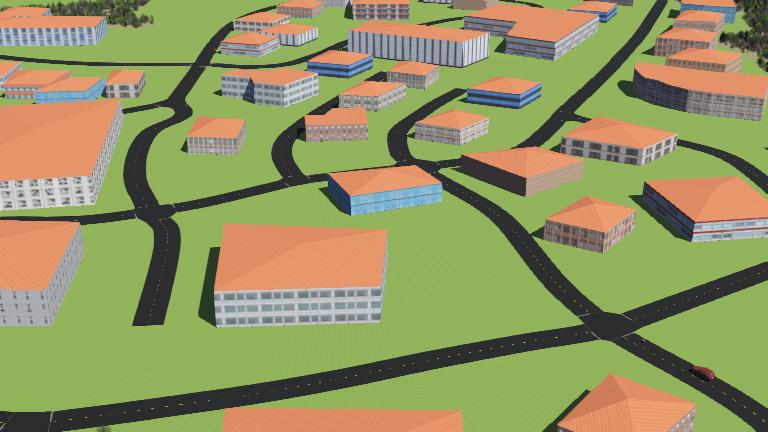
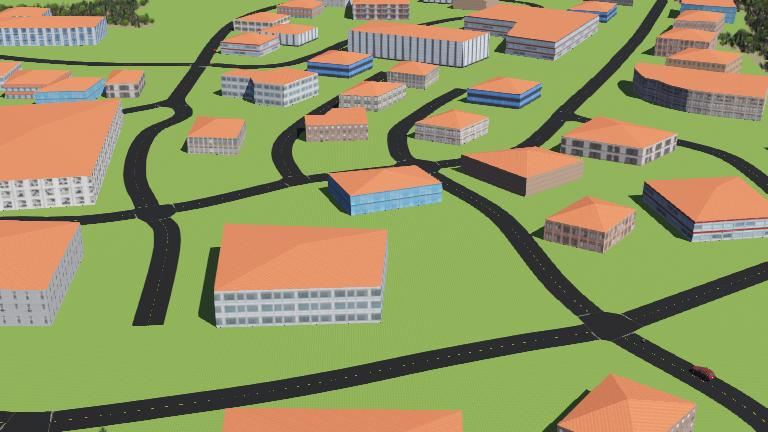
Refactor supervisor structure, add camera director controller

Changed region(s): [[0.0, 0.0, 0.2188, 0.0602], [0.9375, 0.0, 1.0, 0.1505], [0.125, 0.963, 0.1562, 1.0]]

diff --git a/webots/controllers/camera_director/camera_director.py b/webots/controllers/camera_director/camera_director.py
@@ -1,0 +1,62 @@
+from controller import Supervisor
+
+def main():
+    supervisor = Supervisor()
+    timestep = int(supervisor.getBasicTimeStep())
+
+    viewpoint_node = supervisor.getFromDef("MAIN_VIEWPOINT")
+    
+    if viewpoint_node is None:
+        print("CAMERA_DIRECTOR: ERROR! 'DEF MAIN_VIEWPOINT Viewpoint' not found.")
+        return
+
+    vp_pos = viewpoint_node.getField("position")
+    vp_rot = viewpoint_node.getField("orientation")
+    vp_follow = viewpoint_node.getField("follow")
+
+    print("CAMERA_DIRECTOR: Started.")
+
+    shots = [
+        {
+            "time": 0.0,
+            "pos": [-370, 312, 102],
+            "rot": [0.196, 0.188, -0.962, 1.65],
+            "follow": "",
+            "triggered": False
+        },
+        {
+            "time": 23.5,
+            "pos": [-256, -36, 45],
+            "rot": [0.169, -0.0654, -0.983, 3.87],
+            "follow": "",
+            "triggered": False
+        },
+        {
+            "time": 30.0,
+            "pos": [-243, -215, 36.7],
+            "rot": [0.139, -0.0843, -0.987, 4.22],
+            "follow": "",
+            "triggered": False
+        }
+    ]
+
+    while supervisor.step(timestep) != -1:
+        current_time = supervisor.getTime()
+
+        for shot in shots:
+            if not shot["triggered"] and current_time >= shot["time"]:
+                print(f"CAMERA_DIRECTOR: changing to {shot['time']} second view.")
+                
+                if shot.get("pos"):
+                    vp_pos.setSFVec3f(shot["pos"])
+                
+                if shot.get("rot"):
+                    vp_rot.setSFRotation(shot["rot"])
+                
+                if "follow" in shot:
+                    vp_follow.setSFString(shot["follow"])
+                
+                shot["triggered"] = True
+
+if __name__ == "__main__":
+    main()
